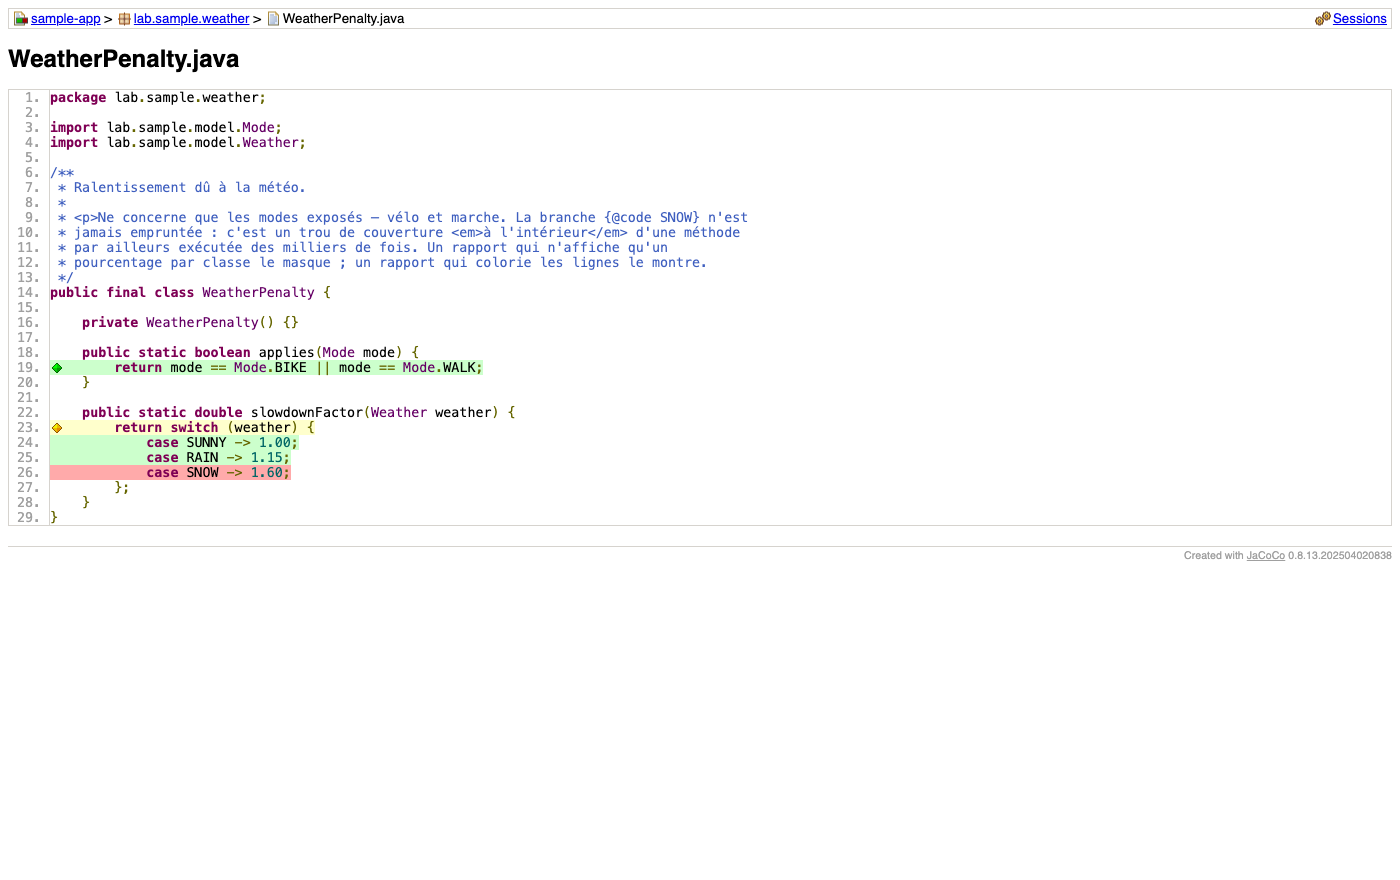
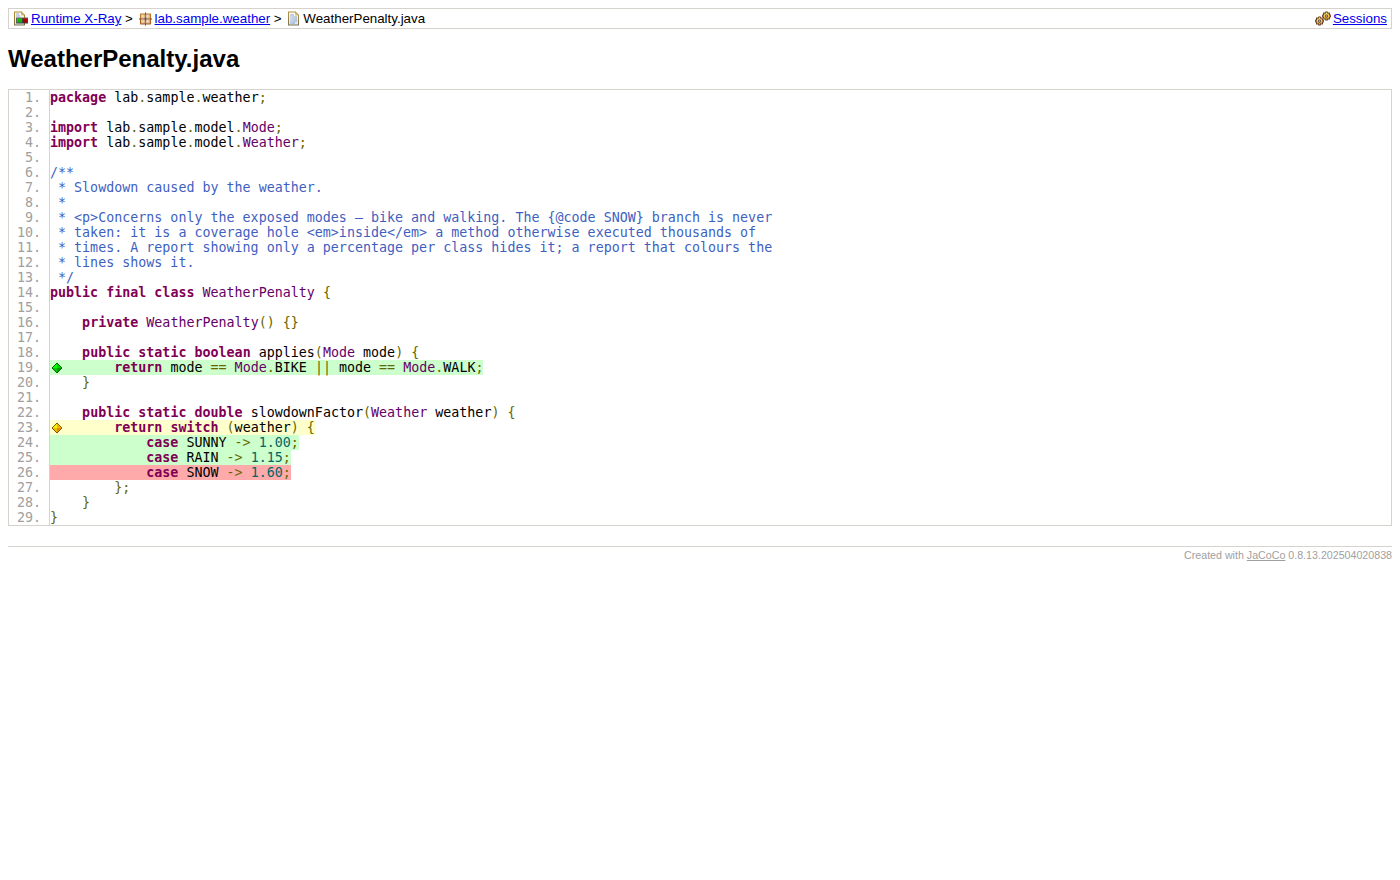
Refaire les neuf captures, et boucher les vingt fuites qu'elles ont révélées
Les captures montraient l'interface en français et, pire, le code de sample-app
d'avant sa traduction : la javadoc de WeatherPenalty s'y lisait encore
« Ralentissement dû à la météo ». Elles sont refaites depuis une campagne de
trois exécutions nommées en anglais, sur cette machine, avec la même géométrie
qu'avant.

suivi-execution.png publiait en plus un chemin de session — deux fois, dans la
ligne de commande et dans le journal. La nouvelle est prise depuis un répertoire
neutre.

Les prendre a fait ce que le relevé au navigateur est censé faire, et que
CLAUDE.md réclame avant chaque poussée : vingt libellés nés en JavaScript
échappaient encore à la traduction. Aucun n'était visible depuis le corps
statique, donc aucun n'était tenu par ViewLanguageTest.

Les plus voyants tenaient à l'état SECOND d'une bascule — « tout replier »,
« tout le code » et leur infobulle n'existent qu'une fois le bouton actionné, et
personne ne regarde la vue dans cet état-là. Les autres étaient des fragments de
phrases composées : « appelle » devant chaque annotation d'appel, « appel 1 » et
« ⟵ retour » dans le tableau des valeurs, « N appels » sur chaque méthode de
l'arbre, et tout le bloc qui explique pourquoi une classe n'a pas de valeurs.

Deux exemples étaient écrits en français dans le gabarit — « paquet.Classe::
methode » — alors que la convention du dépôt veut des exemples anglais partout,
y compris dans de la prose française. Ils s'affichaient tels quels dans la
[…]

diff --git a/orchestrator/src/main/resources/lab/xray/dashboard.html b/orchestrator/src/main/resources/lab/xray/dashboard.html
@@ -3411,11 +3411,11 @@ function drawValues(info){
     // Expliquer POURQUOI il n'y a rien : sans cela, on croit à un défaut de l'outil alors
     // que c'est un choix — l'observation des valeurs est ciblée, et elle doit l'être.
     const nom = esc(info.name || info.cls.split("/").pop());
-    // Une classe n'a pas de méthode à nommer : proposer « --root paquet.Classe:: » livrait
+    // Une classe n'a pas de méthode à nommer : proposer « --root package.Class:: » livrait
     // une commande que personne ne peut lancer. On dit alors ce qui manque.
     const cible = info.name ? "<code>" + nom + "</code>" : "la classe <code>" + nom + "</code>";
     const commande = "--root " + esc(dot(info.cls)) + "::" +
-                     (info.name ? esc(info.name) : "<i>methode</i>");
+                     (info.name ? esc(info.name) : "<i>method</i>");
     const racine = R.context && R.context.methodeRacine ? R.context.methodeRacine : null;
     box.innerHTML = others.length
       ? '<h3>Valeurs des paramètres</h3><div class="explain">' +
@@ -3431,7 +3431,7 @@ function drawValues(info){
           '<a href="#" class="vlink" data-f="' + esc(f) + '">' + esc(f.split("/").pop()) + '</a>')
           .join(" · ") + '</div>'
       : '<h3>Valeurs des paramètres</h3><div class="explain">Aucune méthode n\'a été observée ' +
-        'dans cette exécution : relancer avec <code>--root paquet.Classe::methode</code> pour ' +
+        'dans cette exécution : relancer avec <code>--root package.Class::method</code> pour ' +
         'capturer les valeurs reçues par une méthode.</div>';
     box.querySelectorAll(".vlink").forEach(a => a.onclick = e => {
       e.preventDefault();
@@ -4173,7 +4173,7 @@ function piegesConfig(){
       pas: "ne restreint NI la couverture, NI les classes affichées, NI les sources",
       alerte: (racine && racine.indexOf("::") < 0)
         ? "« " + esc(racine) + " » ne désigne pas une méthode : le format attendu est "
-          + "paquet.Classe::methode. Sans « :: », aucune valeur n'est capturée."
+          + "package.Class::method. Sans « :: », aucune valeur n'est capturée."
         : null },
     { opt: "--filter / CLASS_FILTER",
       quoi: "les classes échantillonnées par le profileur — la mesure du TEMPS",
@@ -5125,7 +5125,9 @@ setOption("clean",    {icon: OPT.cible});
     ", il suffit de faire": ", it is enough to make",
     ", même dans une classe qui en contient plusieurs.": ", even in a class that holds several.",
     ", ou la ligne d'une exécution dans l'arbre d'appel.": ", or a run's line in the call tree.",
+    ", parce qu'observer toutes les méthodes produirait un volume ingérable et fausserait la mesure.": ", because observing every method would produce an unmanageable volume and would skew the measurement.",
     ", puis cliquer sur une ligne.": ", then click a line.",
+    ", relancer avec": ", run again with",
     ", sous le fil d'Ariane : par quels chemins la méthode a été atteinte, et dans quelle proportion. S'il y a plusieurs exécutions, celles où la méthode a aussi tourné sont proposées.": ", under the breadcrumb: by which paths the method was reached, and in what proportion. When there are several runs, those where the method also ran are offered.",
     ", une": ", a",
     ", une fois retiré ce qu'elle a délégué. Une barre large et pâle ne fait que passer le relais ;": ", once what it delegated is taken out. A wide, pale bar only passes the baton on;",
@@ -5160,7 +5162,10 @@ setOption("clean",    {icon: OPT.cible});
     "Aucune instruction de la ligne n'a été exécutée": "No instruction on this line was executed",
     "Aucune mesure n'en est modifiée": "No measurement is changed by it",
     "Aucune méthode n'a été observée dans cette exécution : relancer avec": "No method was observed in this run: run again with",
+    "Aucune valeur n'a été capturée pour": "No value was captured for",
     "Aucune valeur n'a été capturée pour ce rapport. Relancer en indiquant la méthode racine à inspecter (": "No value was captured for this report. Run again naming the root method to inspect (",
+    "Aucune valeur n'a été capturée pour la classe": "No value was captured for the class",
+    "Des piles que le profileur n'a pas pu remonter.": "Stacks the profiler could not walk back.",
     "Bytecode analysé": "Analysed bytecode",
     "Ce qu'on y voit d'une exécution réelle : par où le code est passé, quel appel en a déclenché un autre, et avec quelles valeurs.": "What it shows of a real run: where the code went, which call triggered which, and with what values.",
     "Ce que cette exécution a fait dans son ensemble : couverture, temps, valeurs capturées et contexte de lancement": "What this run did as a whole: coverage, time, captured values and launch context",
@@ -5221,6 +5226,7 @@ setOption("clean",    {icon: OPT.cible});
     "Glisser pour redimensionner": "Drag to resize",
     "Invocations de cette méthode dont Arthas a relevé les paramètres et le retour — cliquer ouvre le bandeau du bas": "Invocations of this method whose arguments and return value Arthas recorded — clicking opens the bottom panel",
     "Invocations de cette méthode dont les paramètres ont été relevés : les déplier montre un nœud par appel": "Invocations of this method whose arguments were recorded: unfolding them shows one node per call",
+    "Invocations dont les paramètres ont été relevés — le bandeau du bas les montre": "Invocations whose arguments were recorded — the bottom panel shows them",
     "Jamais exécuté": "Never executed",
     "Journal de l'exécution": "Run log",
     "L'arbre agrégé": "The aggregated tree",
@@ -5253,6 +5259,11 @@ setOption("clean",    {icon: OPT.cible});
     "Le même, restreint aux classes qui ont réellement tourné. — pas encore produit pour ce rapport.": "The same, restricted to the classes that actually ran. — not produced for this report yet.",
     "La source que cette page lit. Exploitable par un autre outil, ou à la main. — pas encore produit pour ce rapport.": "The source this page reads. Usable by another tool, or by hand. — not produced for this report yet.",
     "Le même contenu, une ligne par classe — pour un tableur. — pas encore produit pour ce rapport.": "The same content, one line per class — for a spreadsheet. — not produced for this report yet.",
+    "Méthodes observées dans cette exécution :": "Methods observed in this run:",
+    "Pour obtenir les valeurs de": "To obtain the values of",
+    "Pour obtenir les valeurs de la classe": "To obtain the values of the class",
+    "ciblée": "targeted",
+    "la classe": "the class",
     "le site JaCoCo complet": "the complete JaCoCo site",
     "le rapport ciblé": "the focused report",
     "Déjà masqué à la mesure :": "Already hidden at measurement time:",
@@ -5338,6 +5349,7 @@ setOption("clean",    {icon: OPT.cible});
     "Répertoire de travail": "Working directory",
     "Répond à": "Answers",
     "Sans nom, une exécution s'affiche sous celui de son lancement (": "Without a name, a run appears under the one from its launch (",
+    "Tout le code est listé, le non exécuté en rouge — cliquer pour n'afficher que l'exécuté": "All the code is listed, the non-executed in red — click to show only what was executed",
     "Seul le code exécuté est listé — cliquer pour voir tout le code": "Only executed code is listed — click to see all the code",
     "Si les temps devaient compter": "If the times had to be exact",
     "Sources indexées": "Indexed sources",
@@ -5437,6 +5449,7 @@ setOption("clean",    {icon: OPT.cible});
     "part du temps": "share of time",
     "partiellement": "partially",
     "plusieurs lancements": "several launches",
+    "appelle": "calls",
     "pointé sur un jar de dépendance, il noie le code du projet dans des milliers de classes": "pointed at a dependency jar, it drowns the project's code in thousands of classes",
     "pour capturer les valeurs reçues par une méthode.": "to capture the values received by a method.",
     "pour elle": "for itself",
@@ -5450,19 +5463,27 @@ setOption("clean",    {icon: OPT.cible});
     "réunit tous les fichiers de l'exécution regardée : les sorties brutes de chaque outil, le journal, et les": "gathers every file of the run being looked at: the raw outputs of each tool, the log, and the",
     "sont celles dont la valeur change d'un appel à l'autre : c'est là qu'il faut chercher ce qui a fait diverger l'exécution.": "are those whose value changes from one call to the next: that is where to look for what made the run diverge.",
     "source seule": "source only",
+    "sur une méthode racine": "on one root method",
+    "sur une méthode racine — ici": "on one root method — here",
     "surlignées": "highlighted",
     "tout déplier": "unfold all",
+    "tout replier": "fold all",
+    "tout le code": "all the code",
     "toutes les classes mesurées ont leur source.": "every measured class has its source.",
     "un seul lancement": "a single launch",
     "une barre colorée est un endroit où le temps se consomme vraiment. Cliquer entre dans la méthode.": "a coloured bar is a place where time is really consumed. Clicking enters the method.",
     "une seule méthode": "a single method",
     "une seule méthode à la fois": "one method at a time",
+    "valeurs": "values",
     "voir dans JaCoCo ↗": "see in JaCoCo ↗",
     "vous": "you",
     "vue d'ensemble": "overview",
     "« Où passe le temps, tous appels confondus ? »": "“Where does the time go, all calls taken together?”",
     "« Qu'a fait": "“What did",
     "« ne montrer que ce qui tourne sous cette méthode »": "“show only what runs under this method”",
+    "— ce qui ne veut pas dire qu'elle n'a pas tourné : la couverture et les temps la montrent bien. L'observation des valeurs est": "— which does not mean it did not run: the coverage and the timings show it plainly. The observation of values is",
+    "— en nommant la méthode à observer.": "— naming the method to observe.",
+    "⟵ retour": "⟵ return",
     "À gauche, choisir un onglet": "On the left, pick a tab",
     "à côté du nom revient à celui du lancement.": "beside the name goes back to the launch one.",
     "à jour": "up to date",
@@ -5547,6 +5568,14 @@ setOption("clean",    {icon: OPT.cible});
     // Borné à un nom qualifié : « Ouvrir » commence aussi des phrases entières.
     [/^Ouvrir ([\w.$<>]+)$/, (m) => "Open " + m[1]],
     [/^appelle (.+) ([\d,.]+) ms$/, (m) => "calls " + m[1] + " " + dec(m[2]) + " ms"],
+    [/^appel (\d+)$/, (m) => "call " + m[1]],
+    [/^(\d+) appels?$/, (m) => m[1] + (m[1] === "1" ? " call" : " calls")],
+    [/^\((\d+) appels?\)$/, (m) => "(" + m[1] + (m[1] === "1" ? " call)" : " calls)")],
+    [/^« (.+) » ne désigne pas une méthode : le format attendu est package\.Class::method\. Sans « :: », aucune valeur n'est capturée\.$/,
+      (m) => "\u201c" + m[1] + "\u201d does not name a method: the expected format is "
+           + "package.Class::method. Without \u201c::\u201d, no value is captured."],
+    [/^affichage arrêté à ([\d\s\u00a0\u202f,.]+) lignes — replier, puis ouvrir la branche voulue$/,
+      (m) => "display stopped at " + nb(m[1]) + " lines — fold, then open the branch you want"],
     [/^← Vue d'ensemble(.*)$/, (m) => "← Overview" + m[1]],
     [/^([\d\s\u00a0\u202f,.]+) classes?$/,
       (m) => nb(m[1]) + (m[1].trim() === "1" ? " class" : " classes")],
